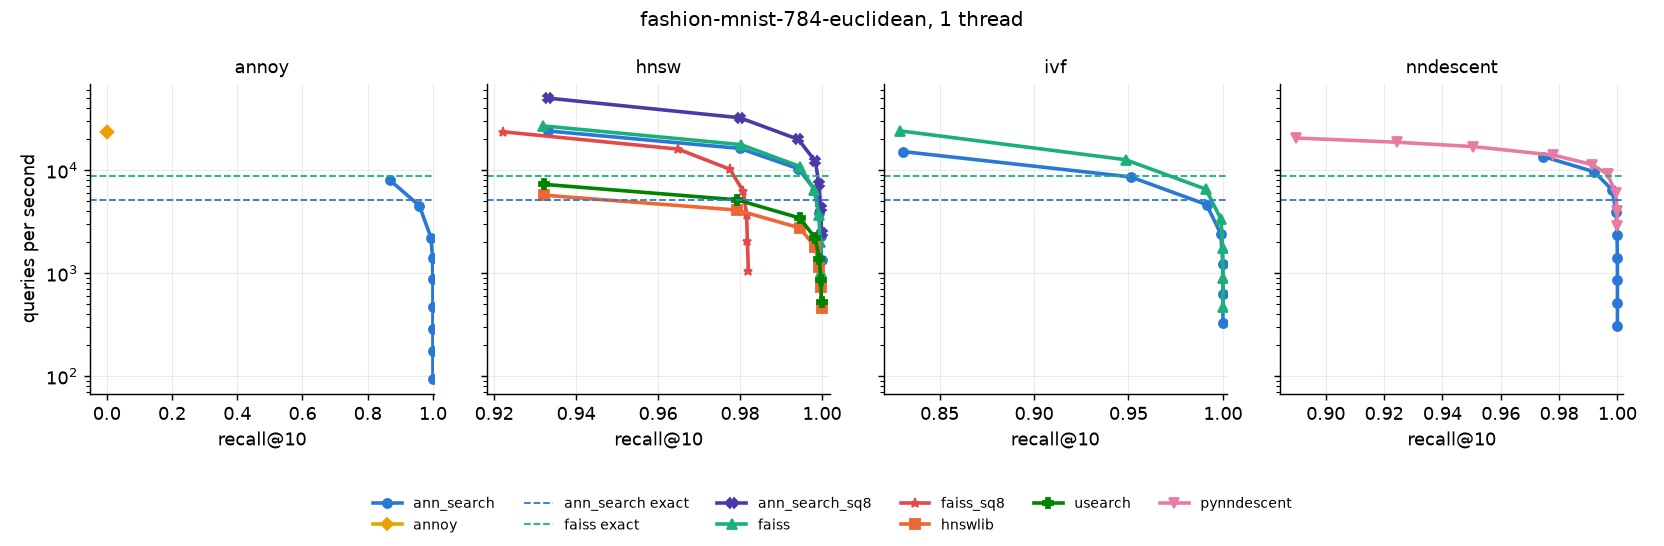
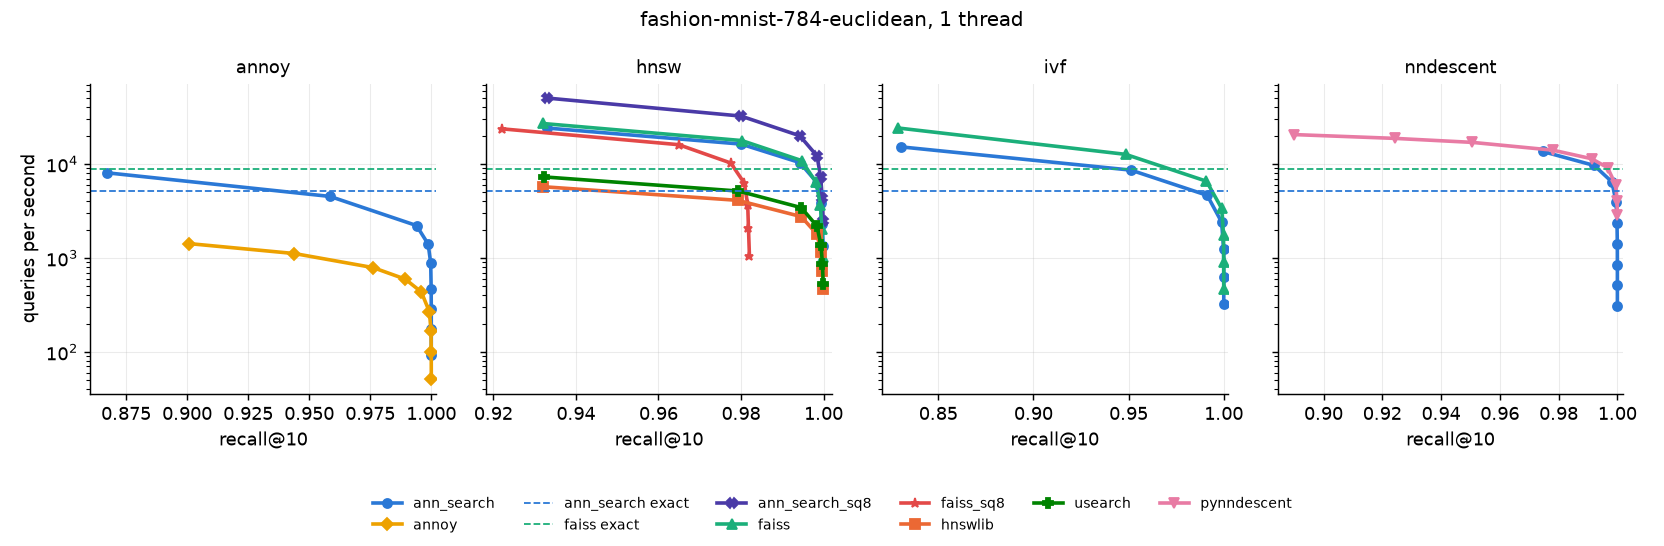
fix: rerun Spotify annoy in the comparison with a correctly built wheel

diff --git a/docs/benchmarks_comparison.md b/docs/benchmarks_comparison.md
@@ -90,7 +90,7 @@ uv run bench.py summarise
 | Method | Library | Build (s) | Build peak (MiB) | Index (MiB) | QPS @ 0.90 | QPS @ 0.95 | QPS @ 0.99 |
 |---|---|---:|---:|---:|---:|---:|---:|
 | annoy | **ann_search** | 1.6 | 767 | 429 | 23,525 | 23,525 | 11,610 |
-| annoy | annoy | 4.6 | 502 | 308 | n/a | n/a | n/a |
+| annoy | annoy | 4.5 | 437 | 244 | 10,409 | 6,306 | 3,501 |
 | cagra | **ann_search_mlx** | 4.6 | 762 | 454 | 179,972 | 179,972 | 156,966 |
 | cagra | **ann_search_gpu** | 6.4 | 1,945 | 1,634 | 55,274 | 55,274 | 37,455 |
 | exhaustive | **ann_search_mlx** | 0.0 | 585 | 428 | 66,472 | 66,472 | 66,472 |
@@ -119,7 +119,7 @@ The ann-benchmarks convention.
 | Method | Library | Build (s) | Build peak (MiB) | Index (MiB) | QPS @ 0.90 | QPS @ 0.95 | QPS @ 0.99 |
 |---|---|---:|---:|---:|---:|---:|---:|
 | annoy | **ann_search** | 5.8 | 749 | 322 | 4,516 | 4,516 | 2,213 |
-| annoy | annoy | 17.8 | 431 | 251 | n/a | n/a | n/a |
+| annoy | annoy | 18.1 | 424 | 244 | 1,422 | 790 | 435 |
 | exhaustive | faiss | 0.0 | 359 | 180 | 8,776 | 8,776 | 8,776 |
 | exhaustive | **ann_search** | 0.0 | 404 | 225 | 5,166 | 5,166 | 5,166 |
 | hnsw | **ann_search_sq8** | 8.7 | 583 | 53 | 50,327 | 32,368 | 19,967 |
@@ -140,7 +140,7 @@ The ann-benchmarks convention.
 | Method | Library | Build (s) | Build peak (MiB) | Index (MiB) | QPS @ 0.90 | QPS @ 0.95 | QPS @ 0.99 |
 |---|---|---:|---:|---:|---:|---:|---:|
 | annoy | **ann_search** | 8.0 | 2,422 | 1,186 | 11,885 | 6,720 | 3,180 |
-| annoy | annoy | 18.4 | 1,777 | 1,240 | n/a | n/a | n/a |
+| annoy | annoy | 18.3 | 1,760 | 1,244 | 8,100 | 4,657 | 1,301 |
 | cagra | **ann_search_mlx** | 12.6 | 4,131 | 1,403 | 71,048 | 43,839 | 13,612 |
 | cagra | **ann_search_gpu** | 17.9 | 5,175 | 4,682 | 66,072 | 30,851 | 3,890 |
 | exhaustive | **ann_search_mlx** | 0.1 | 1,470 | 1,364 | 12,899 | 12,899 | 12,899 |
@@ -167,7 +167,7 @@ The ann-benchmarks convention.
 | Method | Library | Build (s) | Build peak (MiB) | Index (MiB) | QPS @ 0.70 | QPS @ 0.80 | QPS @ 0.90 |
 |---|---|---:|---:|---:|---:|---:|---:|
 | annoy | **ann_search** | 11.6 | 2,388 | 1,182 | 6,844 | 3,065 | 1,648 |
-| annoy | annoy | 25.1 | 1,981 | 1,511 | n/a | n/a | n/a |
+| annoy | annoy | 26.8 | 2,174 | 1,652 | 3,415 | 1,501 | 851 |
 | cagra | **ann_search_mlx** | 17.7 | 4,485 | 1,570 | 60,705 | 34,136 | n/a |
 | cagra | **ann_search_gpu** | 22.3 | 8,470 | 7,703 | 28,725 | 9,880 | n/a |
 | exhaustive | **ann_search_mlx** | 0.1 | 1,356 | 1,356 | 7,254 | 7,254 | 7,254 |
@@ -191,5 +191,5 @@ The ann-benchmarks convention.
 
 ### Runtime info
 
-*ann-search-rs 0.11.0 (commit v0.10.1-76-g288b4d6), run on 2026-10-11 on Apple M1 Max.*
+*ann-search-rs 0.11.0 (commit v0.10.1-76-g288b4d6), run on 2026-10-11 on Apple M1 Max. Runs span commits py-v0.5.0-dirty, v0.10.1-76-g288b4d6.*
 *All benchmarks were run on M1 Max MacBook Pro with 64 GB unified memory.*
